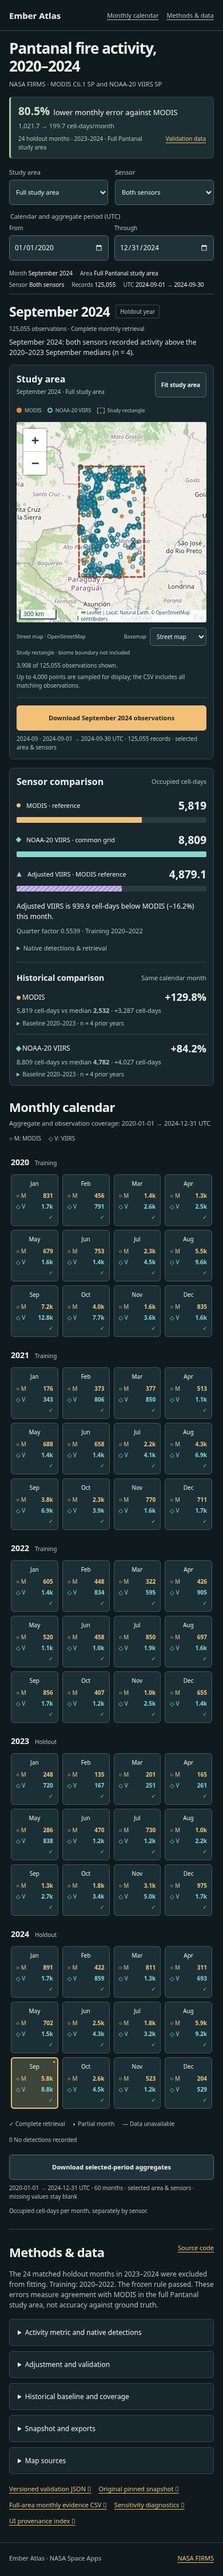
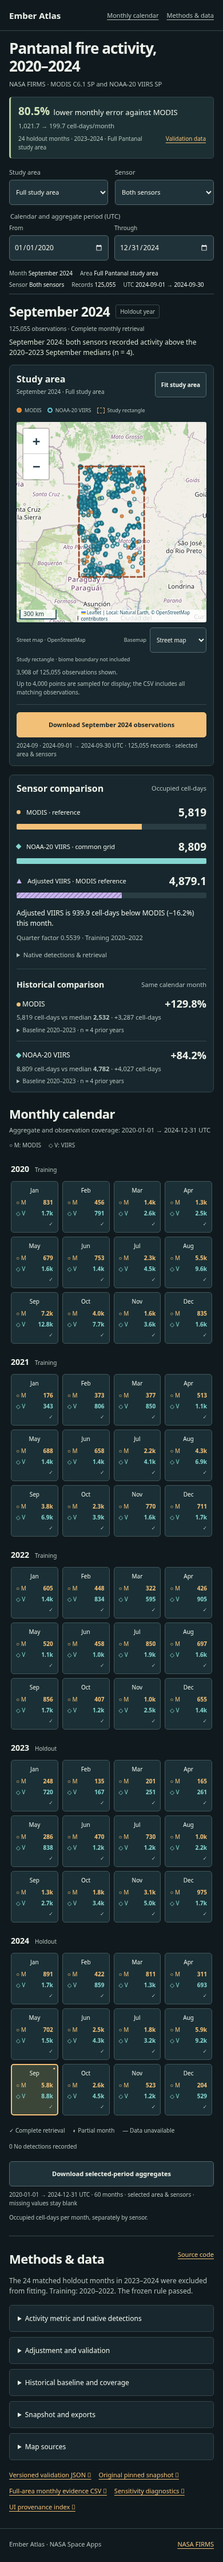
Record public geographic dashboard and fallback verification

Changed region(s): [[0.0308, 0.0311, 0.9538, 0.994], [0.6462, 0.3727, 0.7077, 0.4038], [0.8923, 0.0932, 0.9231, 0.1242]]

diff --git a/docs/DEPLOYMENT.md b/docs/DEPLOYMENT.md
@@ -1,40 +1,37 @@
-# Vercel production release
+# Vercel deployment
 
-Public application: https://ember-atlas-opal.vercel.app
+Public application: https://ember-atlas-opal.vercel.app/
 
-Verified on 2026-11-14 UTC. Vercel reports deployment `dpl_62Ng6iCCLSvKpBQyYEt4PjHY5ZBg` READY in production. Application source commit: `26f646a3da5c5e3757ec41e1a9d7aee3b2f307ff`, branch `work`. Subsequent evidence/documentation commits do not change the hosted application. The PR remains open; no merge was performed.
+Application source: `4d665138201c4941cd9dc7e61e18311d8a5957cc`, branch `work`. Production deployment: `dpl_GgmKyKszTUz6ycwty9NeKmfxYdnC`. Verification: `submission/judging-release.json` and `submission/judging-check-public.json`. Subsequent evidence/documentation commits do not change the hosted application. The PR remains open.
 
-## Architecture and account
+## Architecture
 
-Static English dashboard + versioned gzip snapshot, Framework Other, output `web`, no build/install command. Production alias opens anonymously; preview/deployment authentication settings were not weakened. Ingestion remains separate. No FIRMS key, raw CSVs, ingestion scripts or private runtime configuration were uploaded. `.vercelignore` and a dry run restricted upload to the web directory and Vercel configuration. No paid add-ons or Droplets were created; the project uses the existing Hobby team.
+Static English frontend, Framework Other, output `web`, no build/install command. Leaflet 1.9.4 is locally vendored. OpenStreetMap supplies normal interactive raster tiles; locally stored Natural Earth country boundaries, rivers and settlements provide the fallback. No tile prefetch or offline tile cache is implemented.
 
-CLI 65.16.0 is installed and authenticated as `dscbest-1597`. Project `ember-atlas` (`prj_69e3y1AOgoBBplTu6CwizTkMSoEb`) belongs to `dscbest-1597s-projects` (`team_dtsjqnxFZUPzltgqfxVNqXJ2`). The existing Vercel plugin's documentation search and authenticated team listing succeeded. A separate Codex CLI MCP entry could not be added because `/home/agent/.codex` is read-only; the managed MCP connection remains available. CLI login resolved the earlier project-creation 403.
+The versioned FIRMS snapshot, daily summaries and monthly observation shards are served from the same deployment. Ingestion scripts, raw inputs and credentials are excluded by `.vercelignore`. The public frontend does not require live FIRMS access. The existing Vercel Hobby project is unchanged; no paid add-ons or server functions were added.
 
-## Repeat a release
+## Repeat deployment
 
-From the repository root, review the exact branch and commit, run tests and inspect the explicit target:
+Project `ember-atlas` belongs to `dscbest-1597s-projects`. Verify the target before deploying:
 
 ```sh
 python -m unittest discover -s tests
-node --check web/app.js
 node tests/test_model.mjs
+node --check web/app.js
+node --check web/geographic-map.mjs
 vercel project inspect ember-atlas --scope dscbest-1597s-projects --non-interactive
 vercel deploy --dry --json --project ember-atlas --scope dscbest-1597s-projects
 vercel deploy --prod --yes --project ember-atlas --scope dscbest-1597s-projects
 ```
 
-Only CLI deployment is configured. Git push alone does not update production; no Git auto-deployment connection was enabled. Inspect the deployment after release and repeat the browser flow against its production URL. Do not add FIRMS_MAP_KEY to the web project. Keep prior snapshots available for audit and publish a new index only after validation.
+Git auto-deployment is not configured. Git push alone does not update production. Keep FIRMS_MAP_KEY in the separate ingestion environment.
 
-## Executed public checks
+## Executed checks
 
-Anonymous HTTPS returned HTTP 200 with the expected application. Fresh headless Chromium exercised September 2024 selection, the 5,819 MODIS cell-day reference, northern MODIS observation export (18,038 records), matching aggregate export, full-area supported adjustment, mobile width and absence of JavaScript exceptions. See `submission/judging-check-public.json` for both desktop and mobile: all 60 months, the default 125,055-record observation CSV and 120 aggregate rows, partial manual dates, both subregions, zero versus missing retrieval, and snapshot reconciliation. TLS and hostname were verified with the system CA store. This Cloud runtime's Chromium did not trust its local proxy CA; its scripted check used the exact leaf public-key pin obtained from that independently system-CA-validated HTTPS connection. No global certificate-error bypass was used and the app's TLS configuration was not changed.
+Signed-out desktop and touch-enabled mobile emulation passed initial load, map zoom/pan/scale/fit, month/date/area/sensor changes, CSV reconciliation, subregion adjustment withholding and missing/zero/partial data checks. Separate contexts aborted tile requests and confirmed that the local map, FIRMS overlays and downloads remained available.
 
-Public media: https://ember-atlas-opal.vercel.app/assets/workflow-capture.mp4 . A downloaded copy matches the committed media checksum. Browser playback evidence is in `submission/media-check.json`; official portal format compliance remains an owner gate.
+The default September observation export contains 125,055 rows; the full-period aggregate export contains 120 rows. Northern MODIS September contains 18,038 rows. Public assets match repository bytes. The original scientific snapshot, validation, fitting rules and export model are byte-for-byte unchanged.
 
-The deployment uses the existing Hobby team and basic build machine. There are no server functions or ingestion jobs in this Vercel project. No paid observability add-on was configured.
+HTTPS and hostname validation used the system CA store. Chromium automation used the independently validated leaf-key pins for the application and tile provider to accommodate the Cloud proxy; no global certificate-error bypass was used. Mobile checks use browser emulation, not a physical device.
 
-## Ingestion recovery
-
-The configured FIRMS key initially worked, then requests returned `Invalid MAP_KEY.` After the environment configuration was published, ingestion worked again; the cause of the interruption is unconfirmed. `python scripts/resume_matched.py` fills only uncovered UTC days in 2020–2024, preserving successful extracts and applying pacing and bounded retries. All days for the paired products are now retrieved. Rebuild and rerun the frozen split before any future snapshot release. NASA credentials remain restricted to the ingestion environment, outside the public web project.
-
-Judging UI release: immutable daily summaries and monthly observation shards are generated with `python scripts/build_dashboard.py` after the original pipeline. The pointer `web/data/dashboard.json` links the same source snapshot and unchanged scientific validation. Every loaded derivative is checksum verified; no live FIRMS access is needed. Only the selected month is loaded for points/observations. Locally served Natural Earth public-domain boundaries provide geography without a tile service.
+Actual screen recording: https://ember-atlas-opal.vercel.app/assets/workflow-capture.mp4 . Runtime is 29.64 seconds, with no people/audio. Public playback is recorded in `submission/media-check.json`. Official portal media format and final submission remain Team Owner checks.

diff --git a/docs/Ember-Atlas-Judging-Review.md b/docs/Ember-Atlas-Judging-Review.md
@@ -14,14 +14,14 @@ The default basemap uses OpenStreetMap tiles with attribution. Leaflet 1.9.4 pro
 
 | Requirement | Evidence | Status |
 | --- | --- | --- |
-| Initial state and copy | Compact title, September 2024, calculated 80.5% result, 24 holdout months and full-area scope; no promotional hero or rhetorical opening. | Local verified; public retest pending |
-| Desktop/mobile layout | Map beside comparison on desktop and before it on mobile; calendar follows both. | Local verified; public retest pending |
-| Basemap and navigation | Real OpenStreetMap tiles, visible attribution, zoom, keyboard pan, metric scale and fit. | Local verified; public retest pending |
-| Tile failure | External tile requests are aborted in a separate browser context. Local geography includes 23 river features and 27 settlements; observations and CSV remain available. | Local verified; public retest pending |
-| Filter synchronization | Month, area and sensor changes update actual rendered observation layers and matching CSV records. | Local verified; public retest pending |
-| Calibration scope | Both subregions have no adjusted series, factor or adjusted CSV value. | Local verified; public retest pending |
-| Export reconciliation | Default September: 125,055 observation rows and 120 full-period aggregate rows. Northern MODIS September: 18,038 rows. Export rows, source references and common-grid totals reconcile with the original snapshot. | Local verified; public retest pending |
-| Missing and partial data | A real zero day, a partial date interval and missing December 2019 are distinct. Unavailable counts stay blank. | Local verified; public retest pending |
+| Initial state and copy | Compact title, September 2024, calculated 80.5% result, 24 holdout months and full-area scope; no promotional hero or rhetorical opening. | Verified on local and public desktop/mobile |
+| Desktop/mobile layout | Map beside comparison on desktop and before it on mobile; calendar follows both. | Verified on local and public desktop/mobile |
+| Basemap and navigation | Real OpenStreetMap tiles, visible attribution, zoom, keyboard pan, metric scale and fit. | Verified on local and public desktop/mobile |
+| Tile failure | External tile requests are aborted in a separate browser context. Local geography includes 23 river features and 27 settlements; observations and CSV remain available. | Verified on local and public desktop/mobile |
+| Filter synchronization | Month, area and sensor changes update actual rendered observation layers and matching CSV records. | Verified on local and public desktop/mobile |
+| Calibration scope | Both subregions have no adjusted series, factor or adjusted CSV value. | Verified on local and public desktop/mobile |
+| Export reconciliation | Default September: 125,055 observation rows and 120 full-period aggregate rows. Northern MODIS September: 18,038 rows. Export rows, source references and common-grid totals reconcile with the original snapshot. | Verified on local and public desktop/mobile |
+| Missing and partial data | A real zero day, a partial date interval and missing December 2019 are distinct. Unavailable counts stay blank. | Verified on local and public desktop/mobile |
 
 ## Scientific figures
 
@@ -42,3 +42,5 @@ These figures measure agreement with MODIS. Retrieval completeness does not esta
 - `submission/map-before-desktop.png`, `submission/map-before-mobile.png`
 
 The final source commit, deployment and HTTP checks are recorded in `submission/judging-release.json`. Official demonstration format, event eligibility and final submission remain Team Owner checks.
+
+Verified application source: `4d665138201c4941cd9dc7e61e18311d8a5957cc`. Production deployment: `dpl_GgmKyKszTUz6ycwty9NeKmfxYdnC`. Public workflow check: 2026-11-14T23:05:04.491655+00:00. Both normal tiles and intentionally blocked tiles were exercised; no JavaScript exceptions were observed.

diff --git a/submission/RELEASE-CHECKLIST.md b/submission/RELEASE-CHECKLIST.md
@@ -10,7 +10,7 @@ Checked 2026-11-14 UTC in Codex Cloud. No final submission was performed.
 | Verified | Engineering | English app, CSV fields and package authored; no people or audio in authored media. |
 | Verified | Engineering | Anonymous production HTTPS https://ember-atlas-opal.vercel.app; complete public browser workflow and matching CSV exports passed. docs/DEPLOYMENT.md and judging-check-public.json record evidence. |
 | Pending | Owner | Current official Project Demonstration duration/slide limit and separate local pitch limit. Resources/challenge fetch returned 503. Proposed fallback is not verified compliant. |
-| Verified / Pending | Engineering / Owner | Actual silent English-screen recording is public at https://ember-atlas-opal.vercel.app/assets/workflow-capture.mp4 (30 s), with no people/audio. Anonymous playback is recorded in media-check.json. Owner must confirm official format acceptance and any final edit/caption requirements. |
+| Verified / Pending | Engineering / Owner | Actual silent English-screen recording is public at https://ember-atlas-opal.vercel.app/assets/workflow-capture.mp4 (29.64 s), with no people/audio. Anonymous playback is recorded in media-check.json. Owner must confirm official format acceptance and any final edit/caption requirements. |
 | Pending | Owner | Verify NASA product documentation links, third-party rights and required portal credits. RESOURCES.md distinguishes observations actually used. |
 | Pending | Owner | Challenge, São Paulo Local Event, actual member count, registration, Members tab, same event and no waitlist. No private roster accessed. |
 | Pending | Owner / Local Lead | Eligibility of pre-existing scaffolding and actual development dates; retain original history and obtain ruling if unclear. |
@@ -23,3 +23,5 @@ Public browser verification evidence is recorded in browser-check.json; media-ch
 Verified public browser checks: month buttons, September 2024 primary grid value (5,819 MODIS cell-days), north/MODIS/month observation export (18,038 rows), mobile width and no JavaScript exceptions. Nine Python tests pass, JavaScript syntax check passes, and raw-source credential scan passes. Actual screen captures and a silent video are included; public app and media checks passed. The public flow also verifies that selected aggregate CSV agrees with the observation export and that any supported adjustment is limited to the full area.
 
 Judging interface retest: all 60 months, initial September finding and residual, manual date clipping, sensor/subregion selection, both CSV scopes and zero versus missing behavior passed in fresh desktop/mobile contexts. See judging-check-public.json and docs/Ember-Atlas-Judging-Review.md. Full-area factors remain unavailable in both subregions; original inputs and acceptance rules are byte-for-byte unchanged.
+
+Geographic dashboard verification: signed-out desktop/mobile checks passed map zoom, pan, metric scale and fit; map/filter/export synchronization; and forced OpenStreetMap tile failure with locally served river, settlement and boundary context. The FIRMS snapshot, fitting rules and export model are unchanged.

diff --git a/submission/PROJECT-PAGE.md b/submission/PROJECT-PAGE.md
@@ -10,7 +10,7 @@ Source: https://github.com/dshimo0/ember-atlas
 
 Project Demonstration URL: https://ember-atlas-opal.vercel.app/assets/workflow-capture.mp4
 
-This is an actual 30-second silent screen recording. The Team Owner must confirm acceptance under the current official guide before using it in the portal; the separate three-minute pitch does not establish compliance.
+This is an actual 29.64-second silent screen recording. The Team Owner must confirm acceptance under the current official guide before using it in the portal; the separate three-minute pitch does not establish compliance.
 
 Project Details:
 

diff --git a/submission/DEMONSTRATION.md b/submission/DEMONSTRATION.md
@@ -16,3 +16,5 @@ The current demonstration format and local pitch duration require confirmation f
 | 21–30 s | Selected-month observation export and selected-period aggregate export. |
 
 The recording contains the English application screen and no people or audio. Runtime and public playback verification are recorded in `submission/media-check.json`.
+
+Current recording runtime: 29.64 seconds. It shows the geographic dashboard, September observations, validation summary, map navigation and both downloads. Public playback and source-file matching are recorded in media-check.json.
